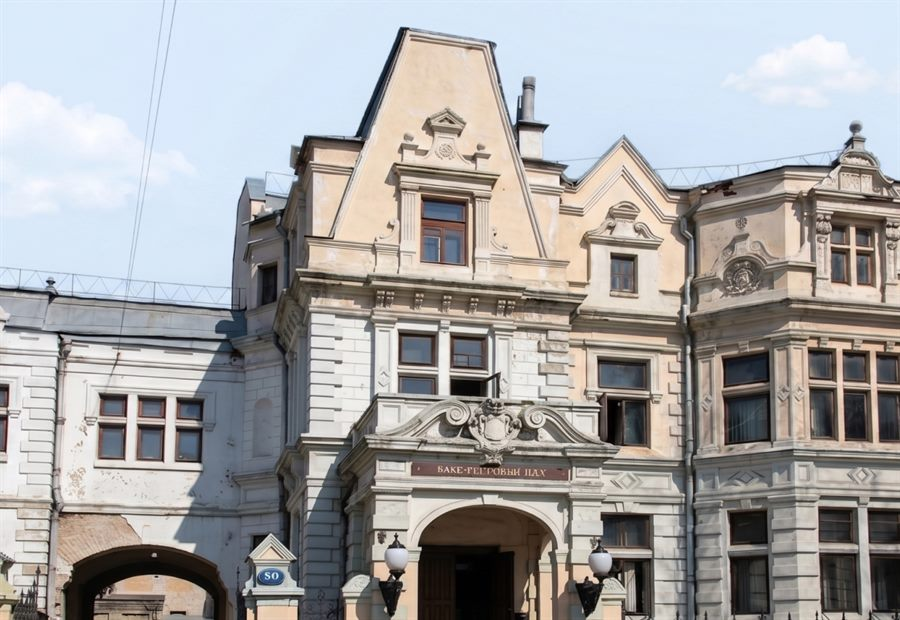
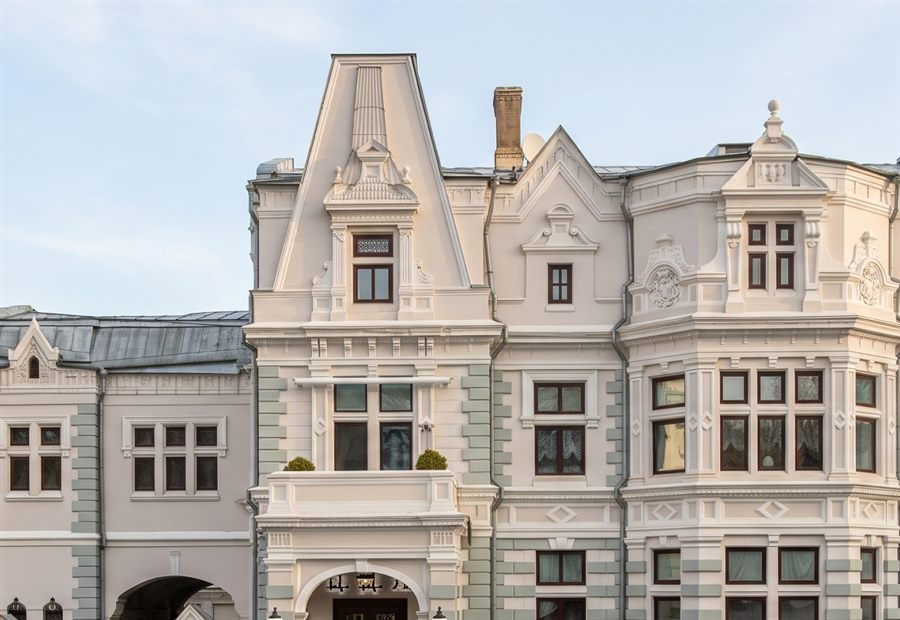
feat(cards): правильные фото на маленькие карточки (архив «сайт (2)»)
40 карточных фото (1327×914) → card-*.jpg 900×620, строго по субъекту:
- перезаписаны 19 корректно-названных карточек (районы, высотки, авангард):
  Арбат, Красносельский, Пресненский, Таганский, Тверской, Якиманка, ЦДА,
  ЦДЛ, наб., Перцовой, учёных, Моссельпром, Моховой, Котельническая,
  Кудринская, Красные Ворота, МГУ, Ленинградская, МИД;
- ИСПРАВЛЕН mismatch: Мещанский и Басманный сидели на заглушке card-mohovoy
  → свои card-meshchansky / card-basmanny (по alt, чтобы не задеть Моховой);
- лента сталинок на хабе: hero-st-* → 12× card-st-* (свои карточные фото);
  Проспект Мира — card-st-mira из hero (в архиве фото нет).
Проверено рендером: cao/stalinki — каждая карточка со своим фото.

diff --git a/deploy/stalinki/index.html b/deploy/stalinki/index.html
@@ -96,18 +96,18 @@
   </div>
   <div class="hp-strip">
     <div class="hp-strip__rail">
-      <a class="hp-strip__item" href="/stalinki/dom-arhitektorov-rostovskaya/" style="text-decoration:none;color:inherit"><img src="/assets/img/hero-st-arhitektorov.jpg" alt="Дом Архитекторов — сталинка ЦАО"><b>Дом Архитекторов</b></a>
-      <a class="hp-strip__item" href="/stalinki/dom-elektrozavoda-kosmodamianskaya/" style="text-decoration:none;color:inherit"><img src="/assets/img/hero-st-elektrozavoda.jpg" alt="Дом Электрозавода — сталинка ЦАО"><b>Дом Электрозавода</b></a>
-      <a class="hp-strip__item" href="/stalinki/dom-nkvd-smolenskaya/" style="text-decoration:none;color:inherit"><img src="/assets/img/hero-st-nkvd.jpg" alt="Дом НКВД — сталинка ЦАО"><b>Дом НКВД</b></a>
-      <a class="hp-strip__item" href="/stalinki/dom-akademikov-leninsky/" style="text-decoration:none;color:inherit"><img src="/assets/img/hero-st-akademikov.jpg" alt="Дом академиков — сталинка ЦАО"><b>Дом академиков</b></a>
-      <a class="hp-strip__item" href="/stalinki/frunzenskaya-naberezhnaya/" style="text-decoration:none;color:inherit"><img src="/assets/img/hero-st-frunzenskaya.jpg" alt="Фрунзенская — сталинка ЦАО"><b>Фрунзенская</b></a>
-      <a class="hp-strip__item" href="/stalinki/dom-mgb-zemlyanoy-val/" style="text-decoration:none;color:inherit"><img src="/assets/img/hero-st-mgb.jpg" alt="Дом МГБ — сталинка ЦАО"><b>Дом МГБ</b></a>
-      <a class="hp-strip__item" href="/stalinki/tverskaya-9/" style="text-decoration:none;color:inherit"><img src="/assets/img/hero-st-tverskaya9.jpg" alt="Дом Жукова — сталинка ЦАО"><b>Дом Жукова</b></a>
-      <a class="hp-strip__item" href="/stalinki/dom-pisateley-lavrushinsky/" style="text-decoration:none;color:inherit"><img src="/assets/img/hero-st-pisateley.jpg" alt="Дом писателей — сталинка ЦАО"><b>Дом писателей</b></a>
-      <a class="hp-strip__item" href="/stalinki/kutuzovsky-prospekt/" style="text-decoration:none;color:inherit"><img src="/assets/img/hero-st-kutuzovsky.jpg" alt="Кутузовский — сталинка ЦАО"><b>Кутузовский</b></a>
-      <a class="hp-strip__item" href="/stalinki/leninsky-prospekt/" style="text-decoration:none;color:inherit"><img src="/assets/img/hero-st-leninsky.jpg" alt="Ленинский — сталинка ЦАО"><b>Ленинский</b></a>
-      <a class="hp-strip__item" href="/stalinki/leningradsky-prospekt/" style="text-decoration:none;color:inherit"><img src="/assets/img/hero-st-leningradsky.jpg" alt="Ленинградский — сталинка ЦАО"><b>Ленинградский</b></a>
-      <a class="hp-strip__item" href="/stalinki/prospekt-mira/" style="text-decoration:none;color:inherit"><img src="/assets/img/hero-st-mira.jpg" alt="Проспект Мира — сталинка ЦАО"><b>Проспект Мира</b></a>
+      <a class="hp-strip__item" href="/stalinki/dom-arhitektorov-rostovskaya/" style="text-decoration:none;color:inherit"><img src="/assets/img/card-st-arhitektorov.jpg" alt="Дом Архитекторов — сталинка ЦАО"><b>Дом Архитекторов</b></a>
+      <a class="hp-strip__item" href="/stalinki/dom-elektrozavoda-kosmodamianskaya/" style="text-decoration:none;color:inherit"><img src="/assets/img/card-st-elektrozavoda.jpg" alt="Дом Электрозавода — сталинка ЦАО"><b>Дом Электрозавода</b></a>
+      <a class="hp-strip__item" href="/stalinki/dom-nkvd-smolenskaya/" style="text-decoration:none;color:inherit"><img src="/assets/img/card-st-nkvd.jpg" alt="Дом НКВД — сталинка ЦАО"><b>Дом НКВД</b></a>
+      <a class="hp-strip__item" href="/stalinki/dom-akademikov-leninsky/" style="text-decoration:none;color:inherit"><img src="/assets/img/card-st-akademikov.jpg" alt="Дом академиков — сталинка ЦАО"><b>Дом академиков</b></a>
+      <a class="hp-strip__item" href="/stalinki/frunzenskaya-naberezhnaya/" style="text-decoration:none;color:inherit"><img src="/assets/img/card-st-frunzenskaya.jpg" alt="Фрунзенская — сталинка ЦАО"><b>Фрунзенская</b></a>
+      <a class="hp-strip__item" href="/stalinki/dom-mgb-zemlyanoy-val/" style="text-decoration:none;color:inherit"><img src="/assets/img/card-st-mgb.jpg" alt="Дом МГБ — сталинка ЦАО"><b>Дом МГБ</b></a>
+      <a class="hp-strip__item" href="/stalinki/tverskaya-9/" style="text-decoration:none;color:inherit"><img src="/assets/img/card-st-tverskaya9.jpg" alt="Дом Жукова — сталинка ЦАО"><b>Дом Жукова</b></a>
+      <a class="hp-strip__item" href="/stalinki/dom-pisateley-lavrushinsky/" style="text-decoration:none;color:inherit"><img src="/assets/img/card-st-pisateley.jpg" alt="Дом писателей — сталинка ЦАО"><b>Дом писателей</b></a>
+      <a class="hp-strip__item" href="/stalinki/kutuzovsky-prospekt/" style="text-decoration:none;color:inherit"><img src="/assets/img/card-st-kutuzovsky.jpg" alt="Кутузовский — сталинка ЦАО"><b>Кутузовский</b></a>
+      <a class="hp-strip__item" href="/stalinki/leninsky-prospekt/" style="text-decoration:none;color:inherit"><img src="/assets/img/card-st-leninsky.jpg" alt="Ленинский — сталинка ЦАО"><b>Ленинский</b></a>
+      <a class="hp-strip__item" href="/stalinki/leningradsky-prospekt/" style="text-decoration:none;color:inherit"><img src="/assets/img/card-st-leningradsky.jpg" alt="Ленинградский — сталинка ЦАО"><b>Ленинградский</b></a>
+      <a class="hp-strip__item" href="/stalinki/prospekt-mira/" style="text-decoration:none;color:inherit"><img src="/assets/img/card-st-mira.jpg" alt="Проспект Мира — сталинка ЦАО"><b>Проспект Мира</b></a>
     </div>
   </div>
 </section>

diff --git a/deploy/cao/index.html b/deploy/cao/index.html
@@ -108,8 +108,8 @@
       <a class="hp-strip__item" href="/cao/tagansky/" style="text-decoration:none;color:inherit"><img src="/assets/img/card-tagansky.jpg" alt="Таганский"><b>Таганский</b></a>
       <a class="hp-strip__item" href="/cao/presnensky/" style="text-decoration:none;color:inherit"><img src="/assets/img/card-presnensky.jpg" alt="Пресненский"><b>Пресненский</b></a>
       <a class="hp-strip__item" href="/cao/krasnoselsky/" style="text-decoration:none;color:inherit"><img src="/assets/img/card-krasnoselsky.jpg" alt="Красносельский"><b>Красносельский</b></a>
-      <a class="hp-strip__item" href="/cao/meshchansky/" style="text-decoration:none;color:inherit"><img src="/assets/img/card-mohovoy.jpg" alt="Мещанский"><b>Мещанский</b></a>
-      <a class="hp-strip__item" href="/cao/basmanny/" style="text-decoration:none;color:inherit"><img src="/assets/img/card-mohovoy.jpg" alt="Басманный"><b>Басманный</b></a>
+      <a class="hp-strip__item" href="/cao/meshchansky/" style="text-decoration:none;color:inherit"><img src="/assets/img/card-meshchansky.jpg" alt="Мещанский"><b>Мещанский</b></a>
+      <a class="hp-strip__item" href="/cao/basmanny/" style="text-decoration:none;color:inherit"><img src="/assets/img/card-basmanny.jpg" alt="Басманный"><b>Басманный</b></a>
     </div>
   </div>
 <style>#caoRail::-webkit-scrollbar{display:none}</style>